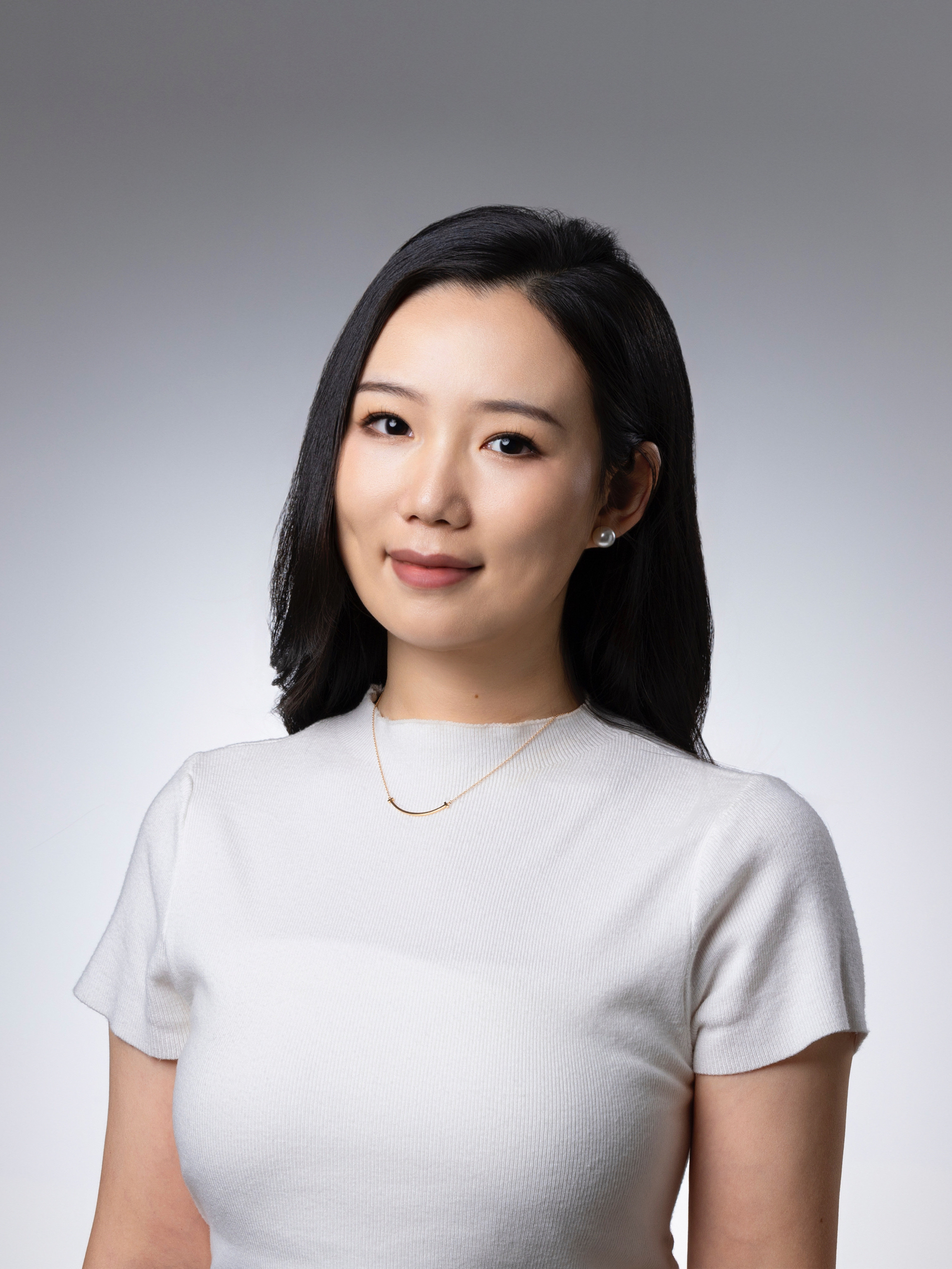
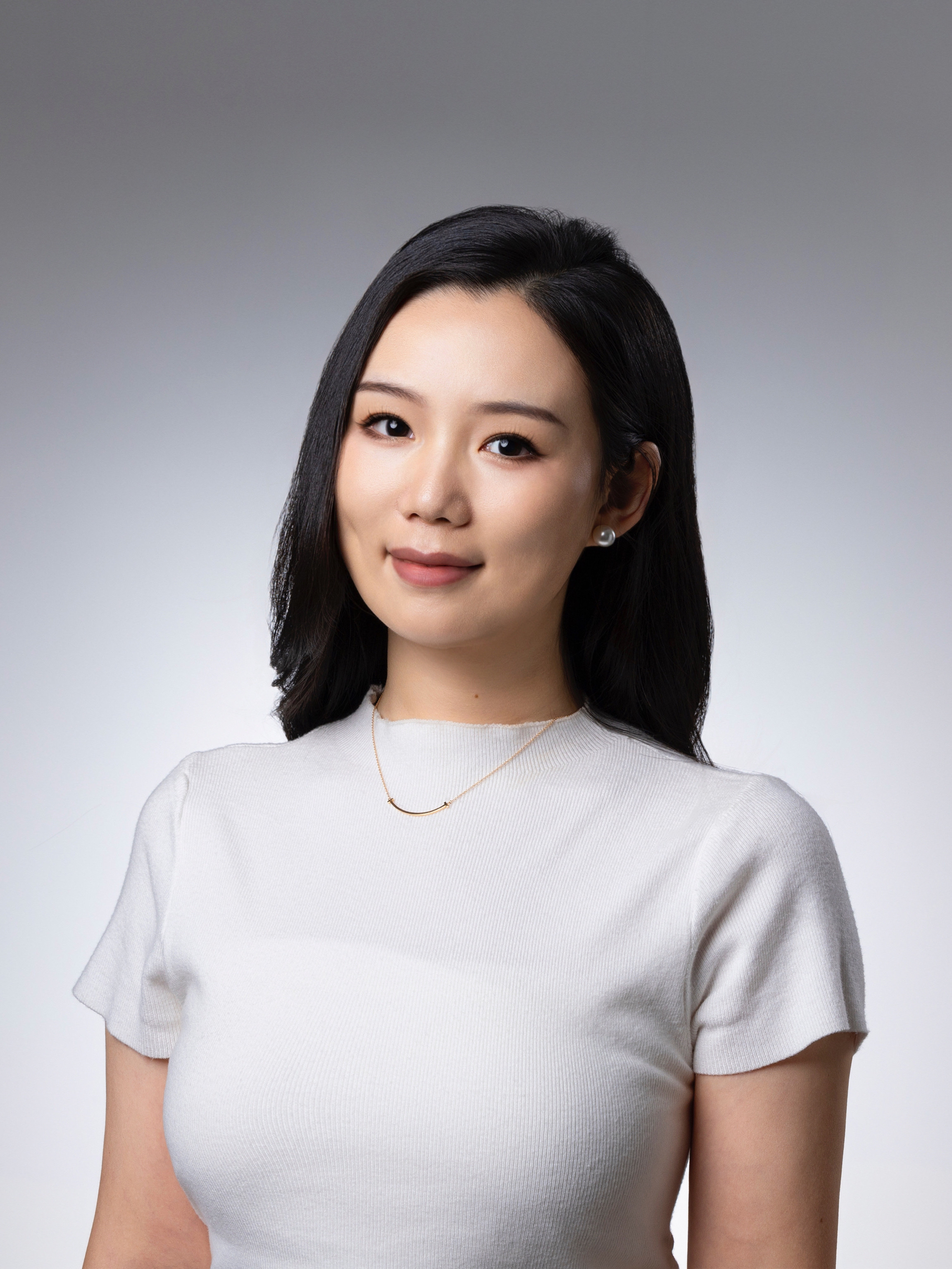
.

diff --git a/Sniffer/index.html b/Sniffer/index.html
@@ -343,12 +343,14 @@
   <div class="container is-max-desktop content">
     <h2 class="title">BibTeX</h2>
     <pre><code>
-@inproceedings{qi2023sniffer,
-  author      = {Qi, Peng and Yan, Zehong and Hsu, Wynne and Lee, Mong Li},
-  title       = {SNIFFER: Multimodal Large Language Model for Explainable Out-of-Context Misinformation Detection},
-  booktitle   = {Proceedings of the IEEE/CVF Conference on Computer Vision and Pattern Recognition},
-  year        = {2024}
-}
+    @InProceedings{Qi_2024_CVPR,
+        author    = {Qi, Peng and Yan, Zehong and Hsu, Wynne and Lee, Mong Li},
+        title     = {SNIFFER: Multimodal Large Language Model for Explainable Out-of-Context Misinformation Detection},
+        booktitle = {Proceedings of the IEEE/CVF Conference on Computer Vision and Pattern Recognition (CVPR)},
+        month     = {June},
+        year      = {2024},
+        pages     = {13052-13062}
+    }
 </code></pre>
   </div>
 </section>
